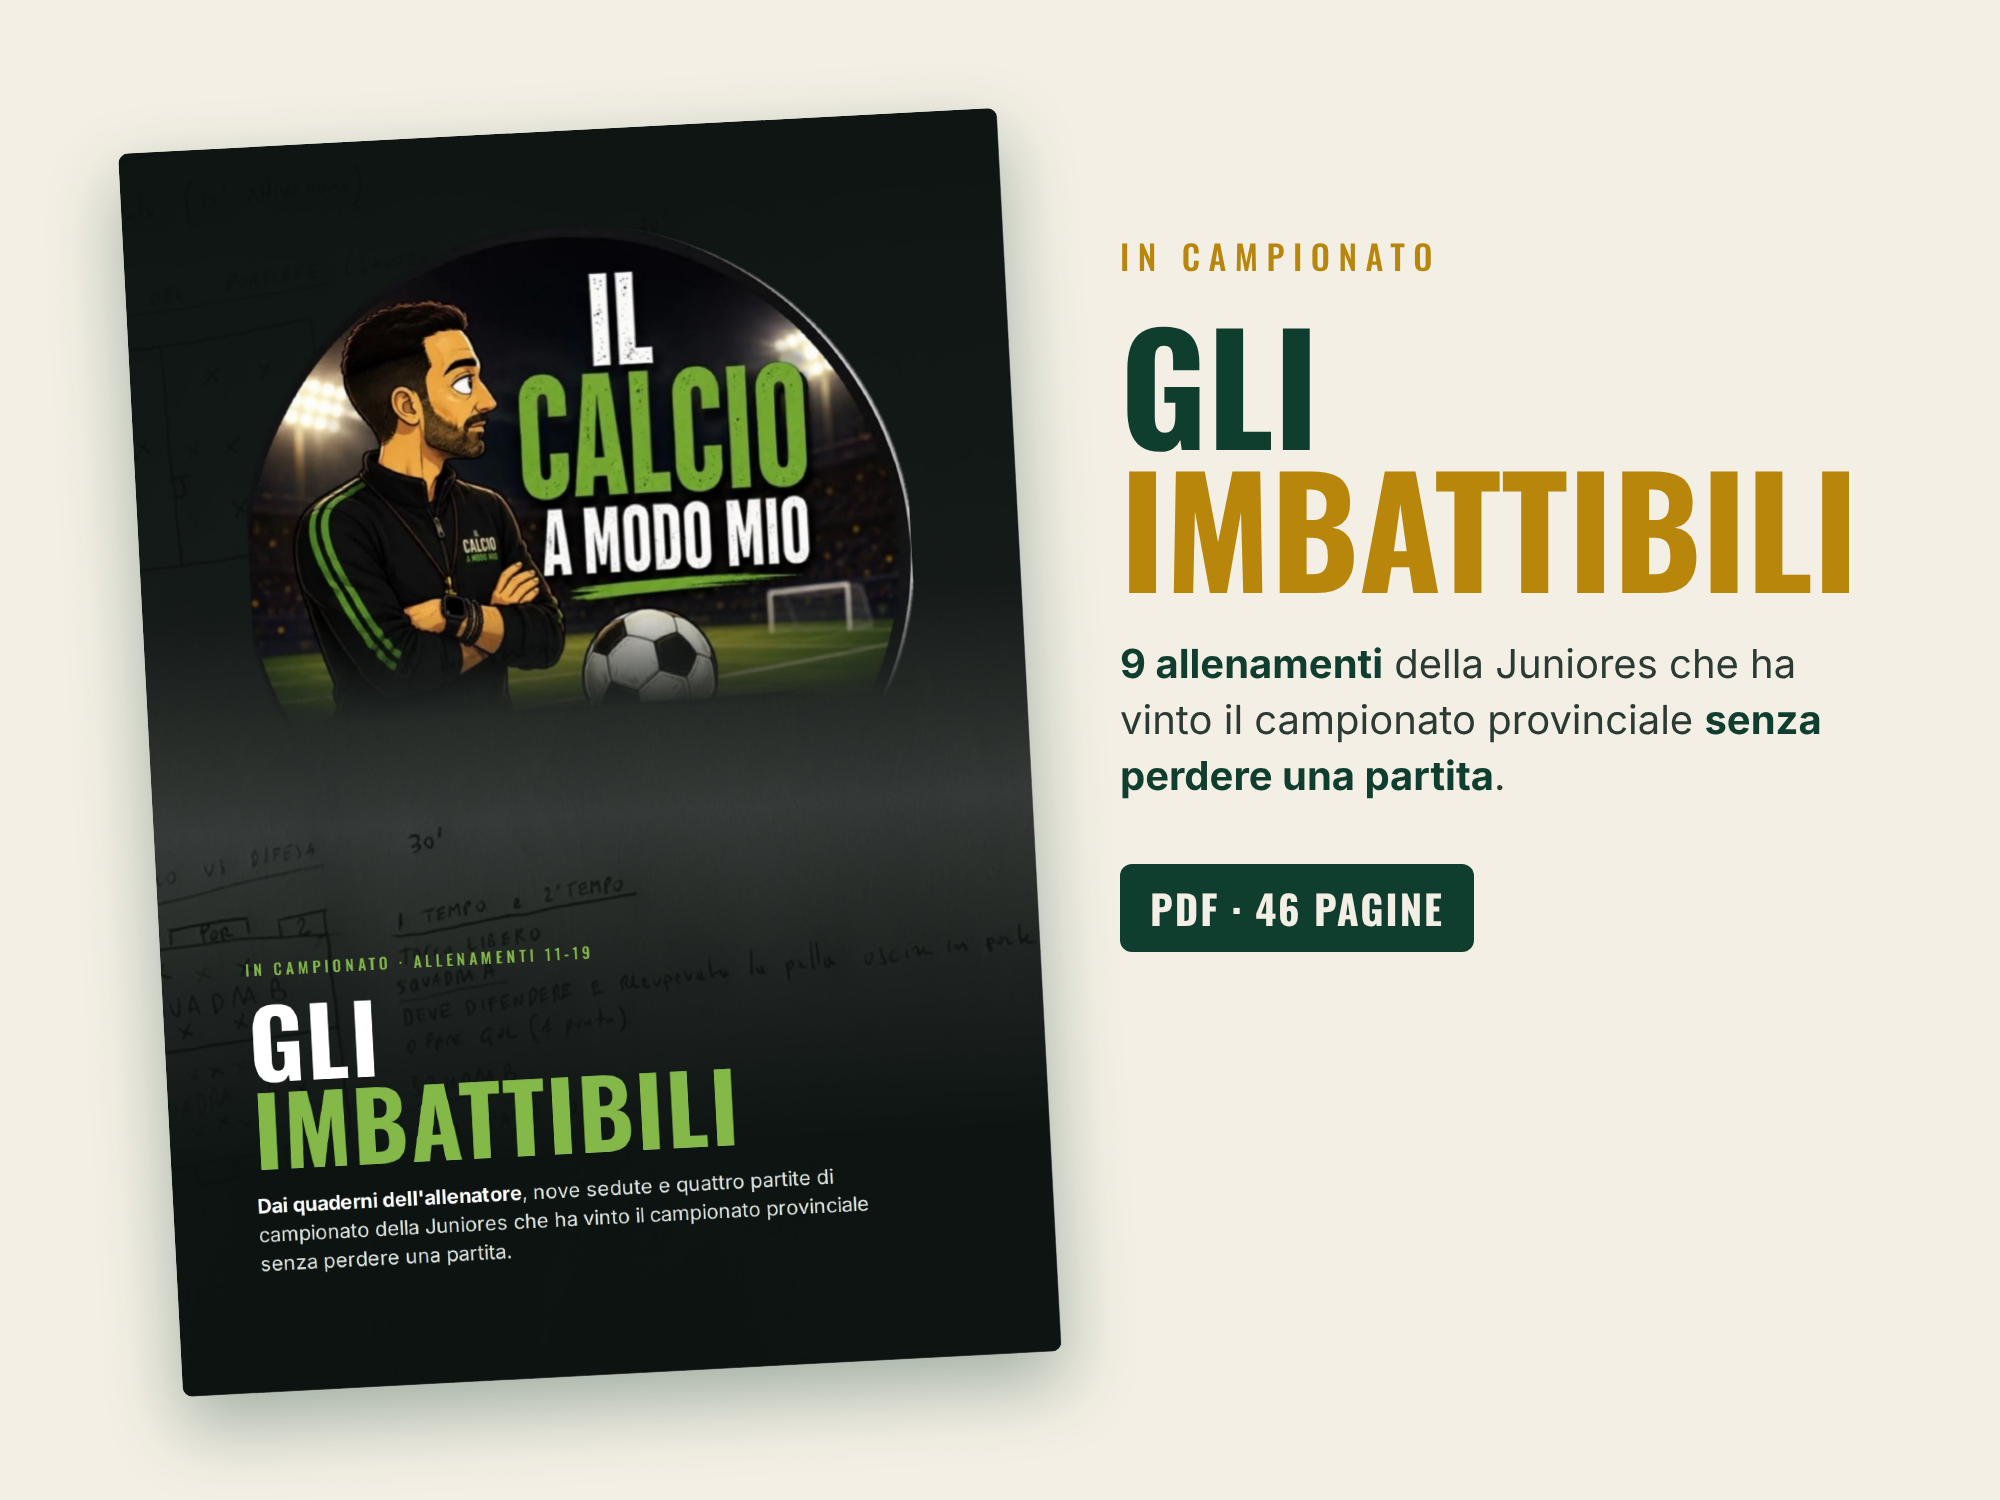
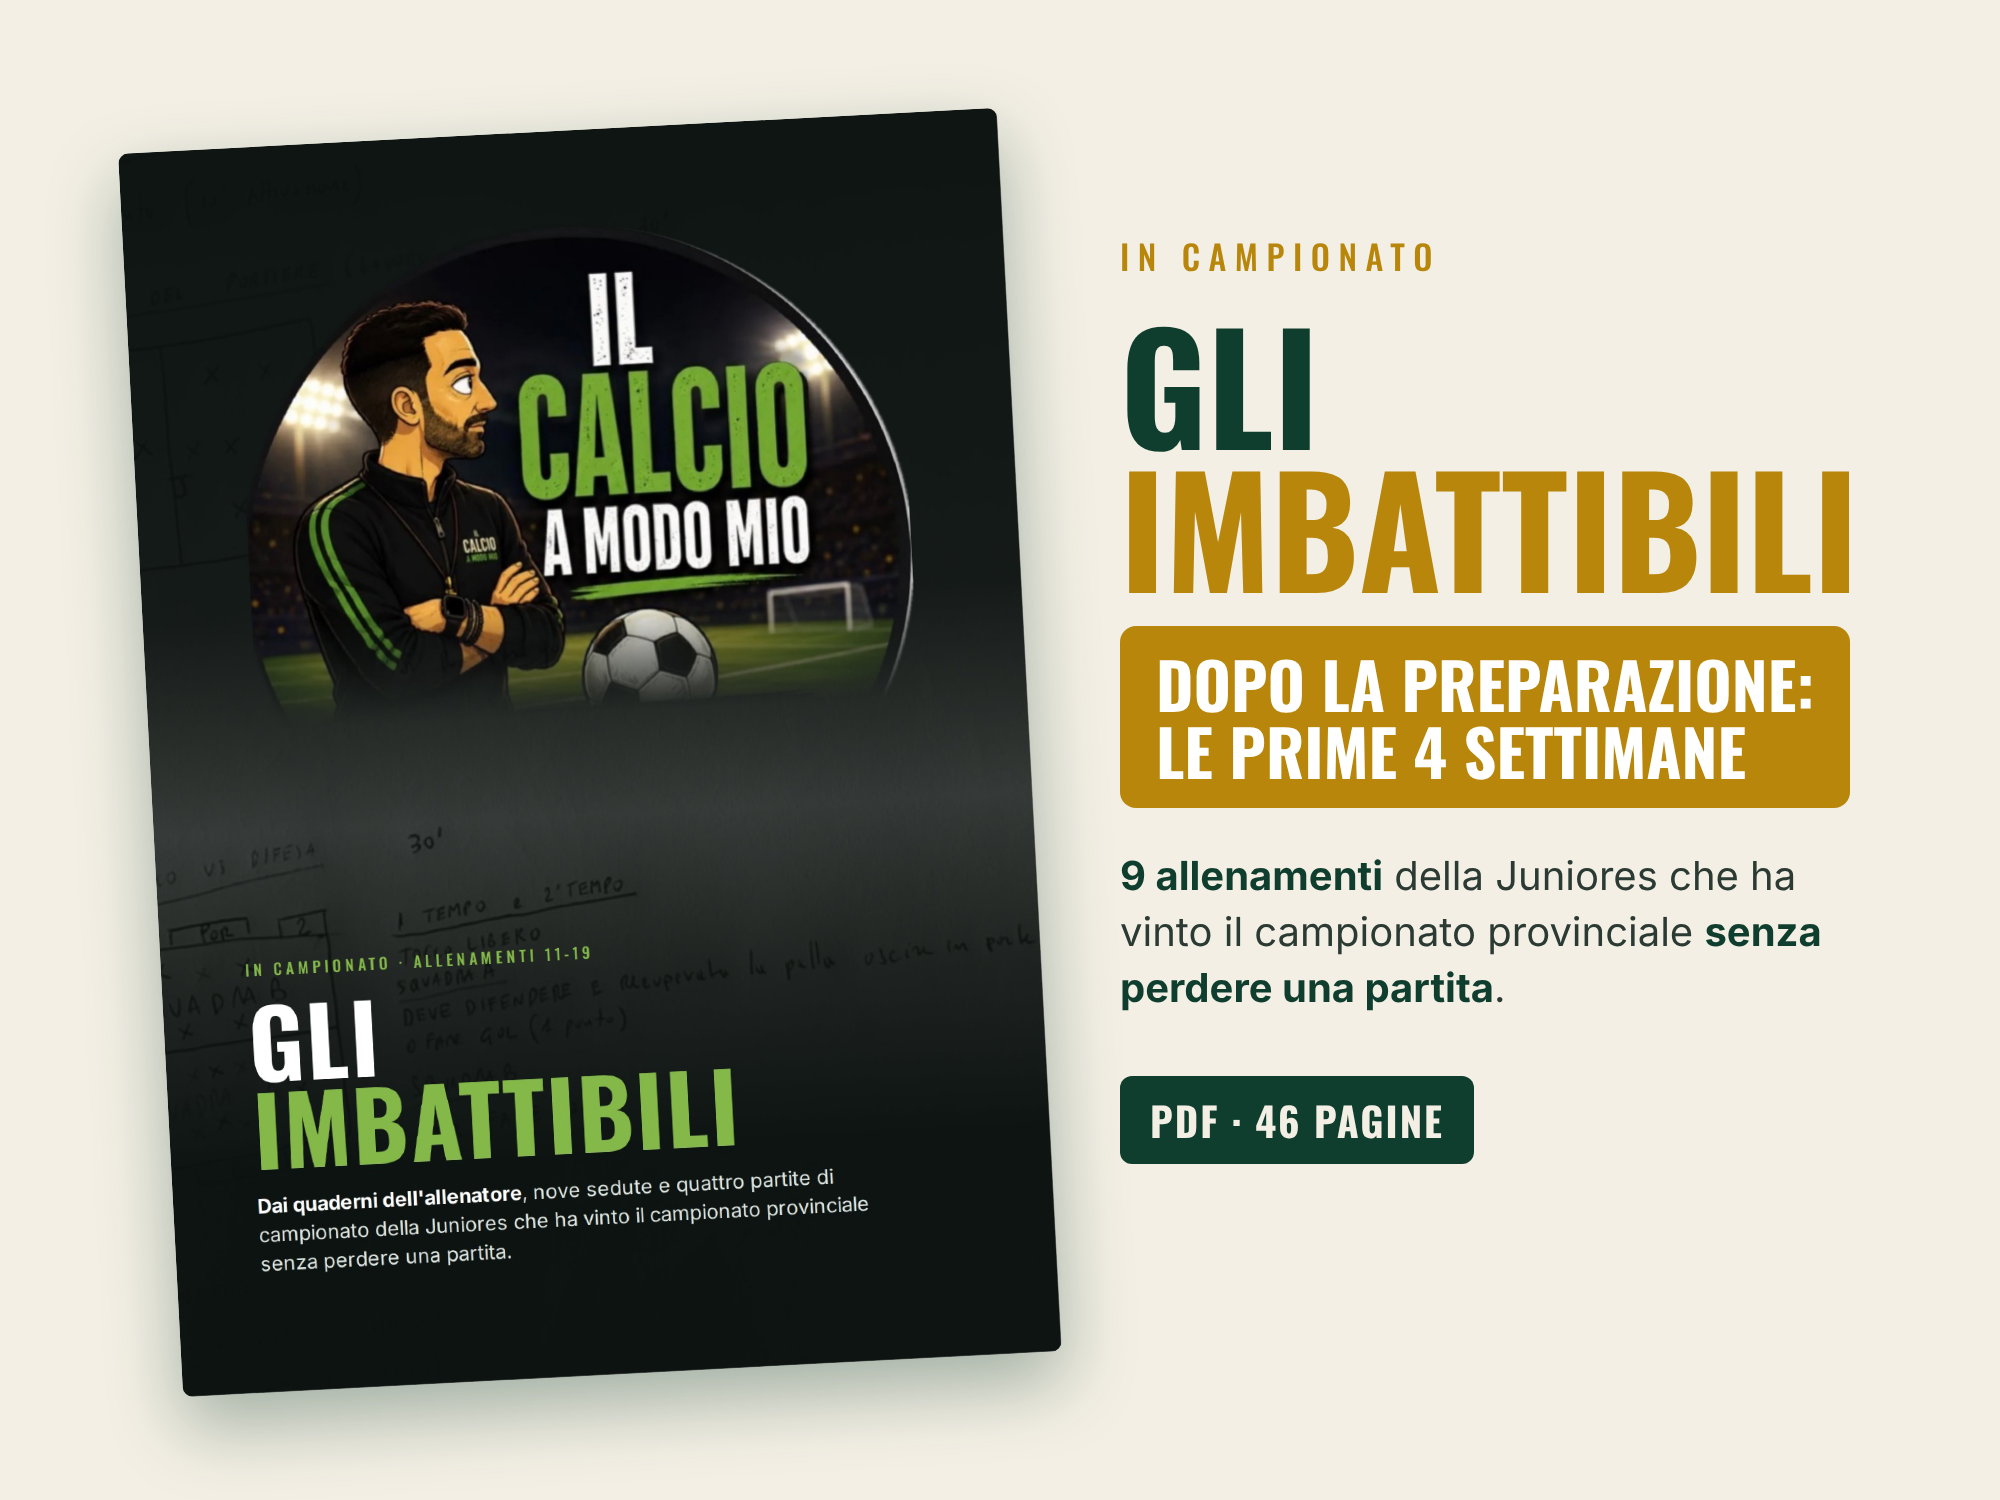
Annuncio In campionato: le prime 4 settimane in evidenza (titolo e foto)
Claude-Session: https://claude.ai/code/session_01C6jnkpg7j78s78of7Dc7AP

Changed region(s): [[0.558, 0.3987, 0.93, 0.6747], [0.558, 0.7053, 0.744, 0.7973]]

diff --git a/marketing/etsy/immagini-annuncio-campionato.html b/marketing/etsy/immagini-annuncio-campionato.html
@@ -49,7 +49,8 @@ p.sub b, .punti b { color: #0f3d2e !important; }
   <img class="pag" src="pagine-campionato/p-1-01.png" style="left:150px;top:130px;width:880px;transform:rotate(-3deg)">
   <div style="position:absolute;left:1120px;right:110px;top:230px">
     <div class="kick">In campionato</div>
-    <h1 style="margin:30px 0 40px">Gli<span>Imbattibili</span></h1>
+    <h1 style="margin:30px 0 30px">Gli<span>Imbattibili</span></h1>
+    <div style="display:inline-block;background:#b8860b;color:#fff;font-family:Oswald;font-weight:700;text-transform:uppercase;font-size:64px;line-height:1.05;padding:24px 36px;border-radius:16px;margin-bottom:40px">Dopo la preparazione:<br>le prime 4 settimane</div>
     <p class="sub"><b style="color:#fff">9 allenamenti</b> della Juniores che ha vinto il campionato provinciale <b style="color:#fff">senza perdere una partita</b>.</p>
     <div style="margin-top:60px"><span class="badge">PDF · 46 pagine</span></div>
   </div>
@@ -57,7 +58,7 @@ p.sub b, .punti b { color: #0f3d2e !important; }
 
 <!-- 2. Cosa c'è dentro -->
 <div class="slide" style="padding:120px 150px">
-  <div class="kick">Cosa c'è dentro</div>
+  <div class="kick">Le prime 4 settimane di campionato</div>
   <h2 style="margin-top:20px">9 allenamenti, lunedì e giovedì</h2>
   <div class="lista">
     <div><b>11</b><span>Rapidità e sponde</span></div>

diff --git a/marketing/etsy/annuncio-campionato.md b/marketing/etsy/annuncio-campionato.md
@@ -12,11 +12,11 @@ Bozza di Claude del 12/10/2026, da far controllare all'allenatore. Il testo vien
 
 ## Titolo
 
-Gli Imbattibili · In campionato: 9 allenamenti di calcio in PDF con schemi e partite | Juniores imbattuta | Esercizi settimanali
+Gli Imbattibili · In campionato: le prime 4 settimane | 9 allenamenti di calcio in PDF con schemi e partite | Juniores imbattuta
 
 ## Descrizione
 
-Gli allenamenti 11-19 della Juniores provinciale che ha vinto il campionato senza perdere una partita: dall'ultimo allenamento del precampionato alla quarta settimana di campionato.
+Dopo la preparazione, le prime 4 settimane di campionato. Gli allenamenti 11-19 della Juniores provinciale che ha vinto il campionato senza perdere una partita: dall'ultimo allenamento del precampionato alla quarta settimana di campionato.
 
 Non sono esercizi presi da internet. Sono gli allenamenti fatti davvero in campo, trascritti dai quaderni dell'allenatore e impaginati uno per uno, con tutte le esercitazioni di ogni seduta.
 
